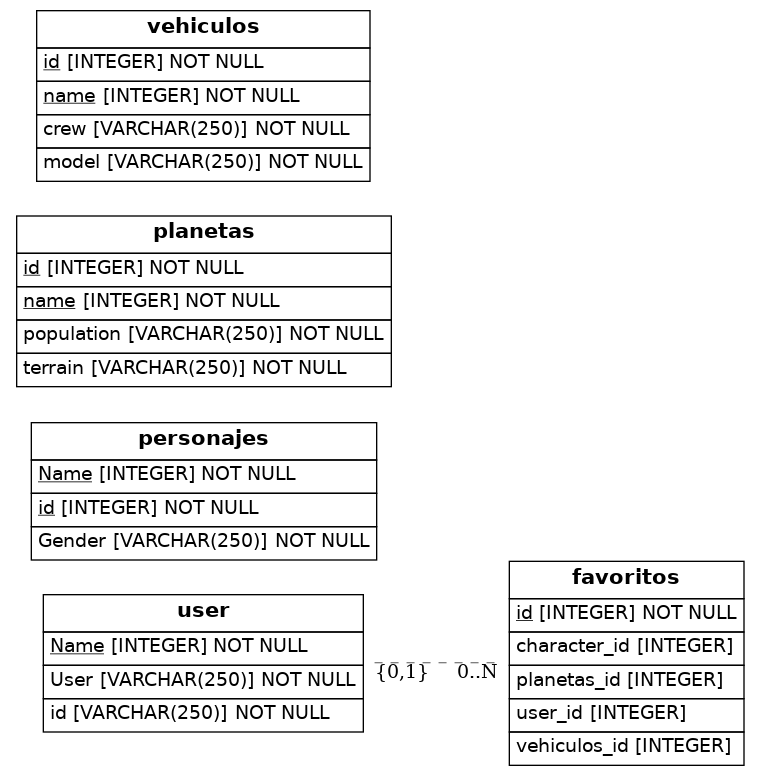
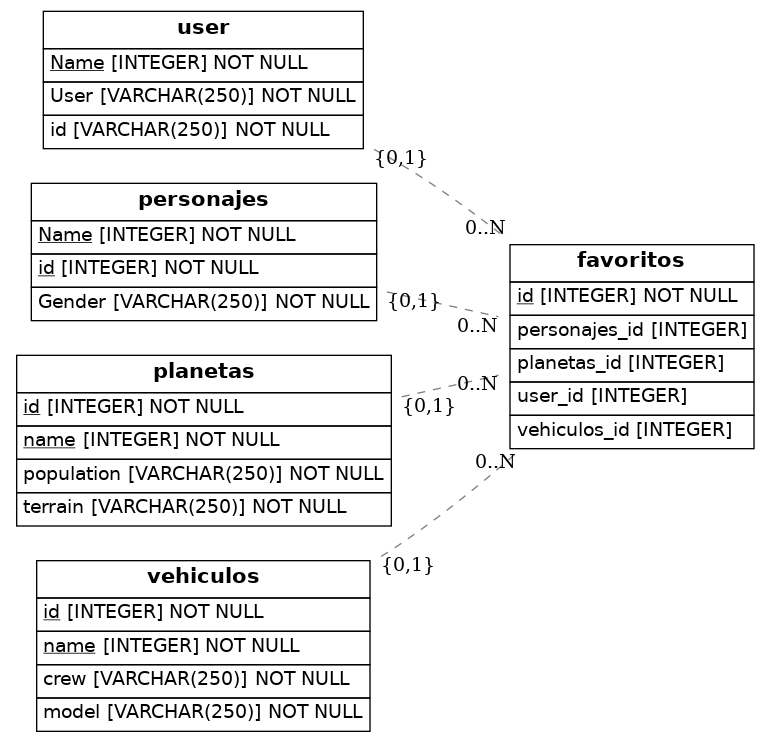
terminado

diff --git a/src/models.py b/src/models.py
@@ -49,10 +49,10 @@ class Favoritos(Base):
     # Here we define columns for the table address.
     # Notice that each column is also a normal Python instance attribute.
     id = Column(Integer, primary_key=True)
-    character_id = Column(Integer, ForeignKey('character.id'))
+    personajes_id = Column(Integer, ForeignKey('personajes.id'))
     user_id = Column(Integer, ForeignKey('user.id'))
-    planetas_id = Column(Integer, ForeignKey('planets.id'))
-    vehiculos_id = Column(Integer, ForeignKey('vehicles.id'))
+    planetas_id = Column(Integer, ForeignKey('planetas.id'))
+    vehiculos_id = Column(Integer, ForeignKey('vehiculos.id'))
     def to_dict(self):
         return {}
 
